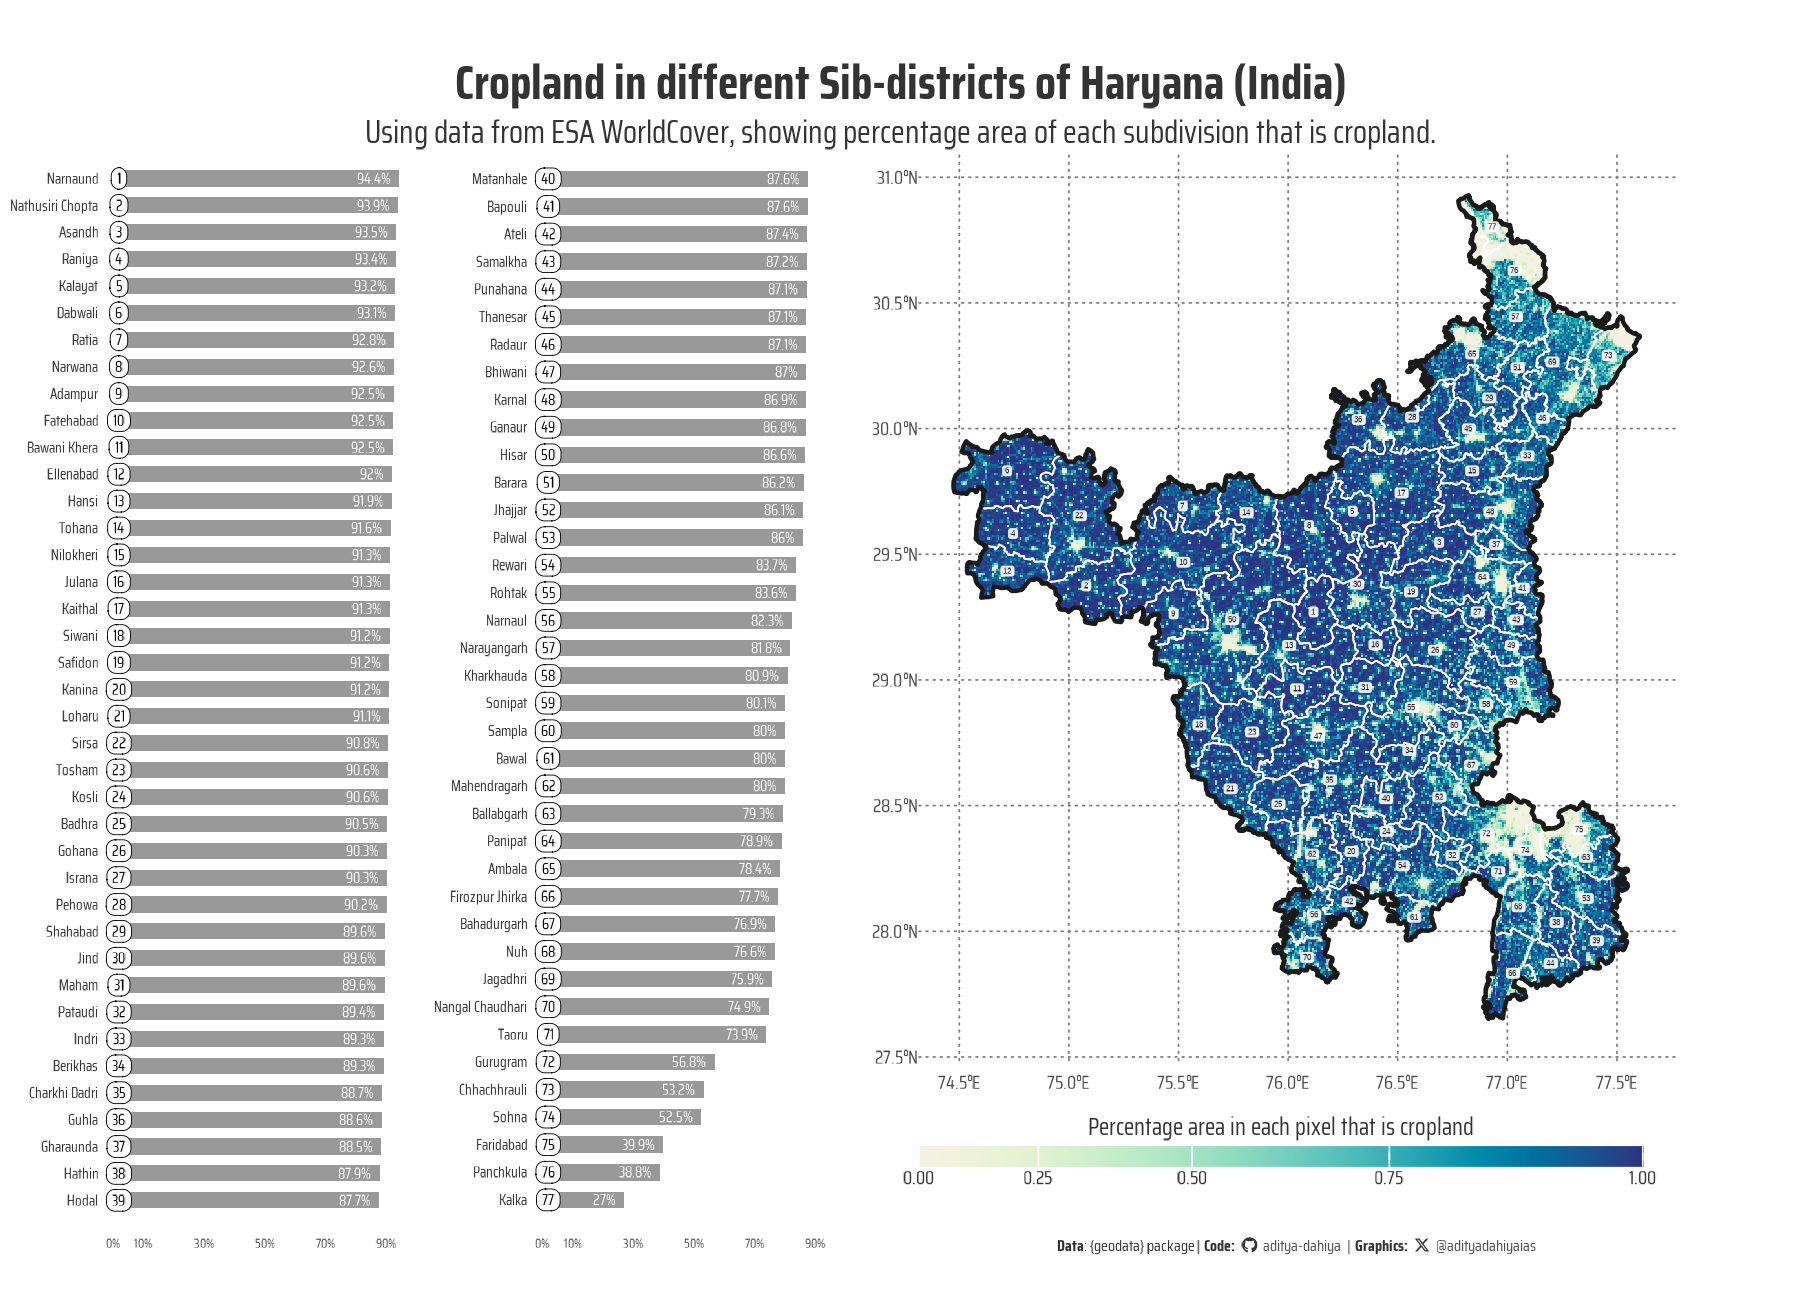
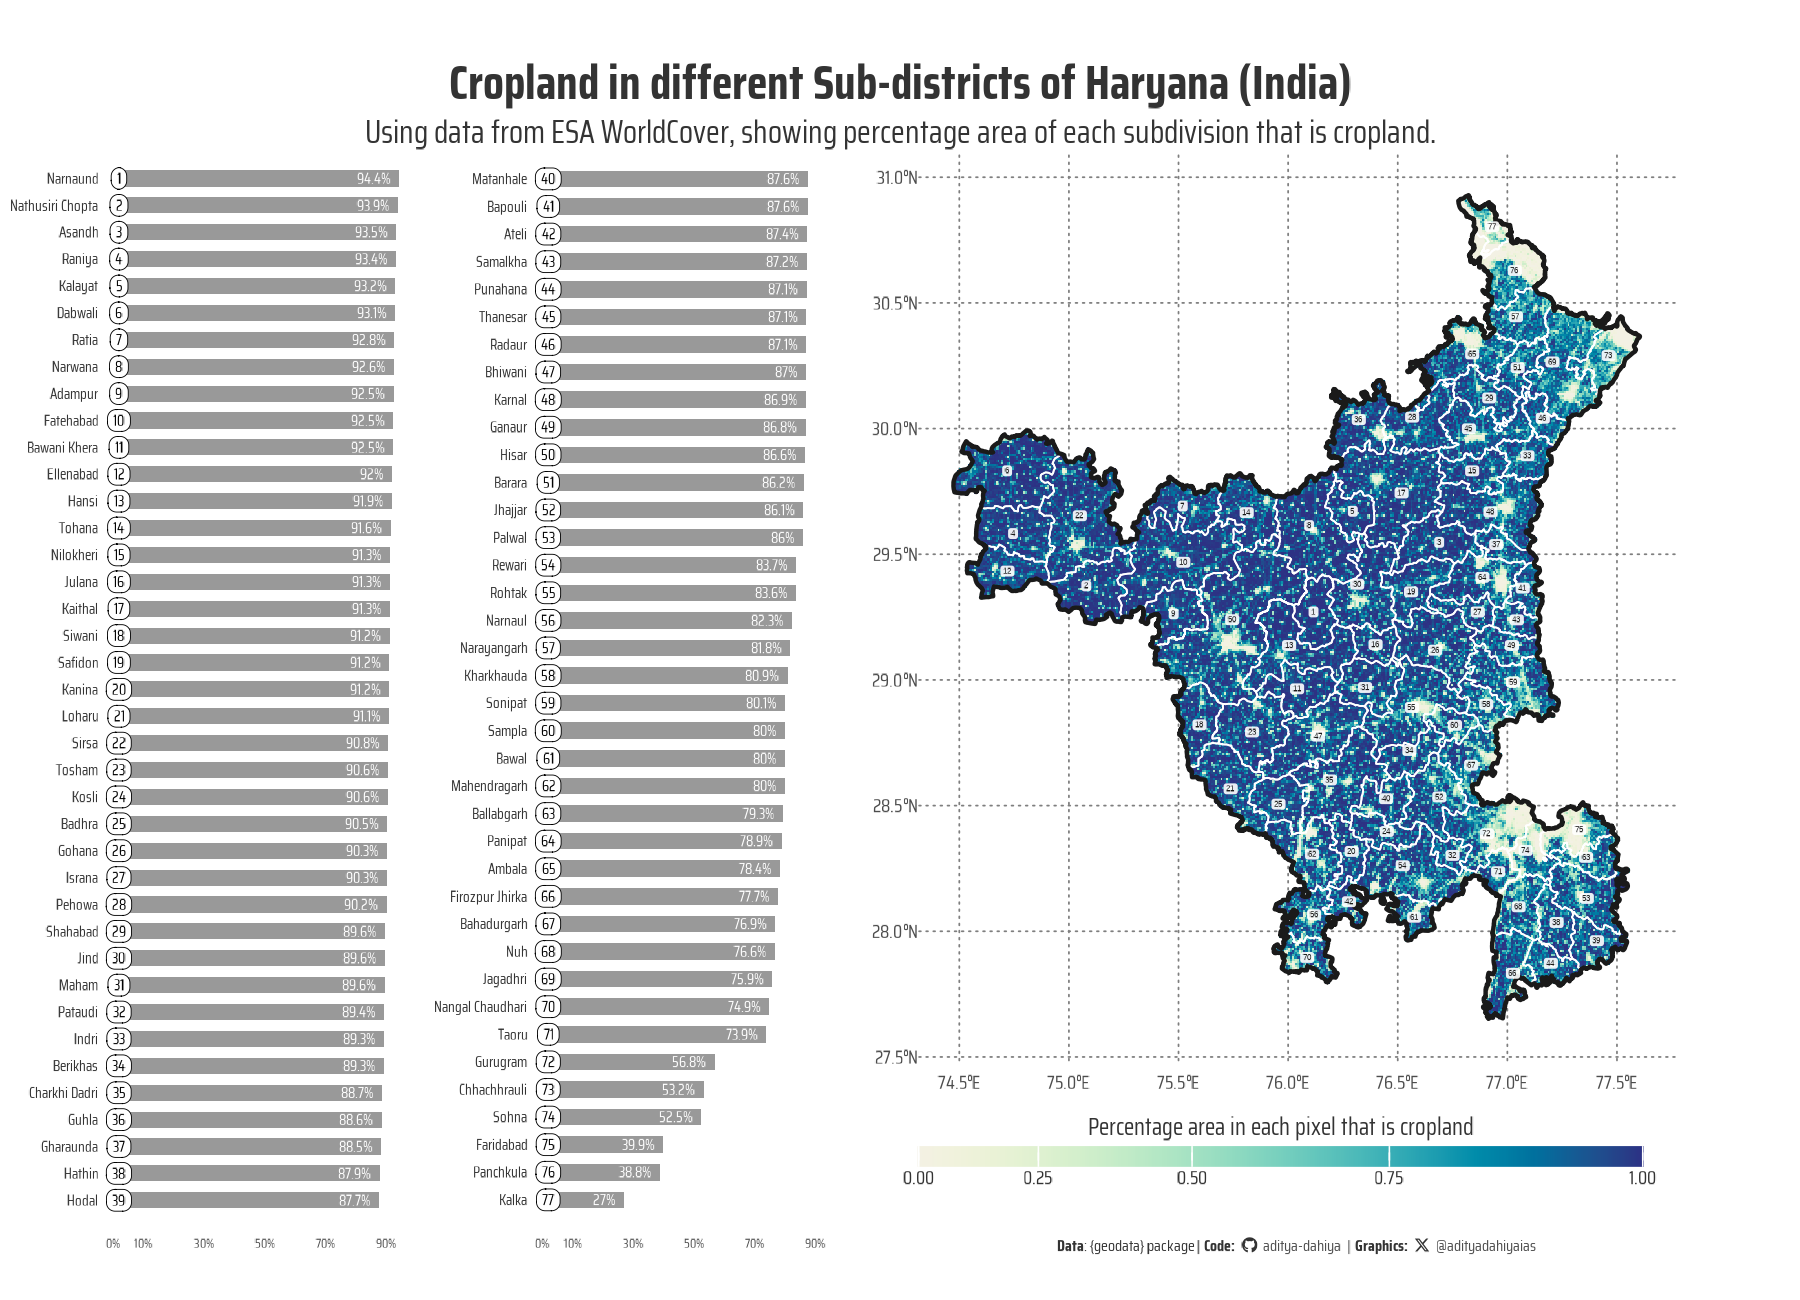
minor update spelling cropland geodata

Changed region(s): [[0.2489, 0.0308, 0.7467, 0.0923]]

diff --git a/docs/geocomputation/geodata_package.html b/docs/geocomputation/geodata_package.html
@@ -969,7 +969,7 @@ Figure&nbsp;1: Monthly Average Temperatures Across Greenland: showcasing tempera
 <span id="cb6-31"><a href="#cb6-31" aria-hidden="true" tabindex="-1"></a>  ) <span class="sc">+</span></span>
 <span id="cb6-32"><a href="#cb6-32" aria-hidden="true" tabindex="-1"></a>  <span class="fu">coord_sf</span>(<span class="at">clip =</span> <span class="st">"off"</span>) <span class="sc">+</span></span>
 <span id="cb6-33"><a href="#cb6-33" aria-hidden="true" tabindex="-1"></a>  <span class="fu">labs</span>(</span>
-<span id="cb6-34"><a href="#cb6-34" aria-hidden="true" tabindex="-1"></a>    <span class="at">title =</span> <span class="st">"Cropland in different Sib-districts of Haryana (India)"</span>,</span>
+<span id="cb6-34"><a href="#cb6-34" aria-hidden="true" tabindex="-1"></a>    <span class="at">title =</span> <span class="st">"Cropland in different Sub-districts of Haryana (India)"</span>,</span>
 <span id="cb6-35"><a href="#cb6-35" aria-hidden="true" tabindex="-1"></a>    <span class="at">subtitle =</span> <span class="st">"Using data from ESA WorldCover, showing percentage area of each subdivision that is cropland."</span>,</span>
 <span id="cb6-36"><a href="#cb6-36" aria-hidden="true" tabindex="-1"></a>    <span class="at">caption =</span> plot_caption,</span>
 <span id="cb6-37"><a href="#cb6-37" aria-hidden="true" tabindex="-1"></a>    <span class="at">fill =</span> <span class="st">"Percentage area in each pixel that is cropland"</span>,</span>
@@ -1502,7 +1502,7 @@ window.document.addEventListener("DOMContentLoaded", function (event) {
 <input type="hidden" id="giscus-alt-theme" value="dark">
 </div> <!-- /content -->
 <footer class="footer"><div class="nav-footer"><div class="nav-footer-center"><div class="toc-actions d-sm-block d-md-none"><ul><li><a href="https://github.com/Aditya-Dahiya/visage/edit/main/geocomputation/geodata_package.qmd" class="toc-action"><i class="bi bi-github"></i>Edit this page</a></li><li><a href="https://github.com/Aditya-Dahiya/visage/issues/new" class="toc-action"><i class="bi empty"></i>Report an issue</a></li></ul></div></div></div></footer><div class="page-columns page-rows-contents page-layout-article"><div class="social-share"><a href="https://twitter.com/share?url=https://aditya-dahiya.github.io/visage/geocomputation/geodata_package.html&amp;text=Visualizing Information and Spatial Analysis with ggplot2 Extensions" target="_blank" class="twitter"><i class="fab fa-twitter fa-fw fa-lg"></i></a><a href="https://www.linkedin.com/shareArticle?url=https://aditya-dahiya.github.io/visage/geocomputation/geodata_package.html&amp;title=Visualizing Information and Spatial Analysis with ggplot2 Extensions" target="_blank" class="linkedin"><i class="fa-brands fa-linkedin-in fa-fw fa-lg"></i></a>  <a href="mailto:?subject=Visualizing Information and Spatial Analysis with ggplot2 Extensions&amp;body=Check out this link:https://aditya-dahiya.github.io/visage/geocomputation/geodata_package.html" target="_blank" class="email"><i class="fa-solid fa-envelope fa-fw fa-lg"></i></a><a href="https://www.facebook.com/sharer.php?u=https://aditya-dahiya.github.io/visage/geocomputation/geodata_package.html" target="_blank" class="facebook"><i class="fab fa-facebook-f fa-fw fa-lg"></i></a><a href="javascript:void(0);" onclick="var mastodon_instance=prompt('Mastodon Instance / Server Name?'); if(typeof mastodon_instance==='string' &amp;&amp; mastodon_instance.length){this.href='https://'+mastodon_instance+'/share?text=Visualizing Information and Spatial Analysis with ggplot2 Extensions https://aditya-dahiya.github.io/visage/geocomputation/geodata_package.html'}else{return false;}" target="_blank" class="mastodon"><i class="fa-brands fa-mastodon fa-fw fa-lg"></i></a></div></div>
-<script>var lightboxQuarto = GLightbox({"loop":false,"closeEffect":"zoom","descPosition":"bottom","selector":".lightbox","openEffect":"zoom"});
+<script>var lightboxQuarto = GLightbox({"selector":".lightbox","descPosition":"bottom","closeEffect":"zoom","loop":false,"openEffect":"zoom"});
 (function() {
   let previousOnload = window.onload;
   window.onload = () => {

diff --git a/docs/geocomputation.html b/docs/geocomputation.html
@@ -274,7 +274,7 @@ Subtitle
 </tr>
 </thead>
 <tbody class="list">
-<tr data-index="0" data-categories="Maps,Geocomputation,{geodata}" data-listing-date-sort="1737916200000" data-listing-file-modified-sort="1738160875113" data-listing-date-modified-sort="NaN" data-listing-reading-time-sort="22" data-listing-word-count-sort="4296" data-listing-title-sort="Exploring the package {geodata}" data-listing-filename-sort="geodata_package.qmd" onclick="href = this.querySelector('a').getAttribute('href');
+<tr data-index="0" data-categories="Maps,Geocomputation,{geodata}" data-listing-date-sort="1737916200000" data-listing-file-modified-sort="1738161376014" data-listing-date-modified-sort="NaN" data-listing-reading-time-sort="22" data-listing-word-count-sort="4296" data-listing-title-sort="Exploring the package {geodata}" data-listing-filename-sort="geodata_package.qmd" onclick="href = this.querySelector('a').getAttribute('href');
  if (href) { window.location=href ; return false; }">
 <td>
 <span class="listing-date">Jan 27, 2025</span>
